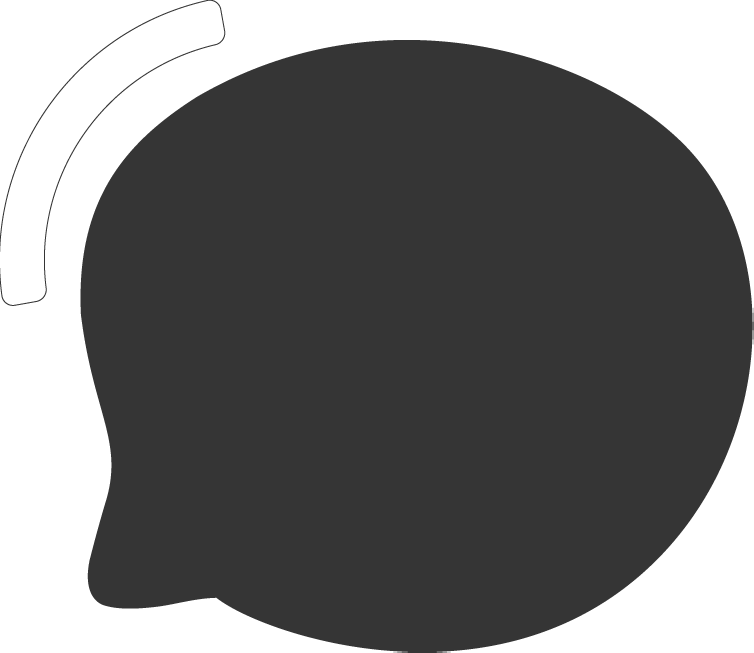
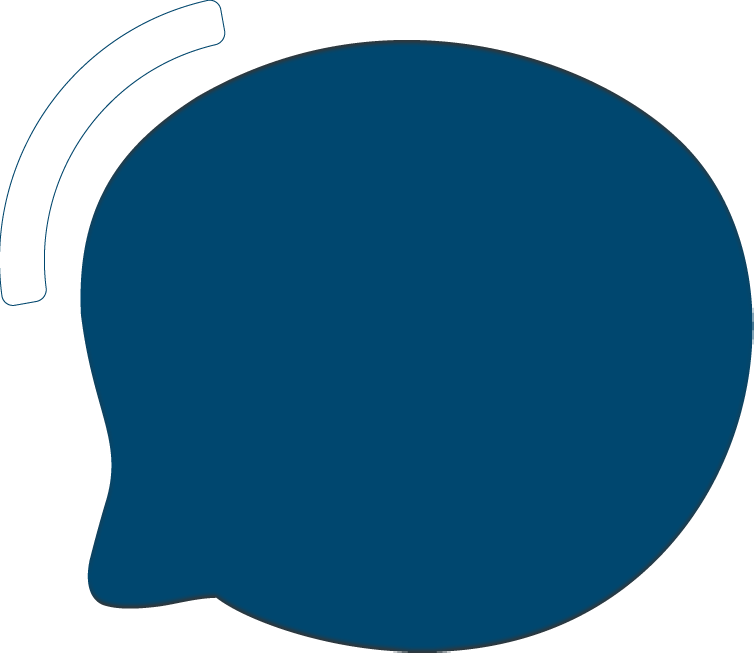
complete

diff --git a/index.html b/index.html
@@ -449,36 +449,27 @@
                     <div class="col-md-3"></div>
                 </div>
             </div>
-            <div class="row" style="margin-left: 85px;">
+            <div class="row">
                 <h1 class="text-center my-3">Our team</h1>
                 <div class="team">
                     <div class="row">
-                        <div class="col m-3 text-center">
-                            <img src="./assets/ceo.jpg" alt="" style="border: 2px solid black;" width="200">
-                            <p>Sahil Bhayani</p>
-                            <p>CEO</p>
+                        <div class="col-md-3 text-center">
+                            <img src="./assets/CEO.png" alt="ceo" height="300px" width="300px">
                         </div>
-                        <div class="col m-3 text-center">
-                            <img src="./assets/co-founder.jpg" alt="" style="border: 2px solid black;" width="200">
-                            <p>Dhruvik Bhayani</p>
-                            <p>Co-Founder<br/>and Project manager</p>
+                        <div class="col-md-3 text-center">
+                            <img src="./assets/manager.png" alt="manager" height="300px" width="300px">
                         </div>
-                        <div class="col m-3 text-center">
-                            <img src="./assets/tm.jpg" alt="" style="border: 2px solid black;" width="200">
-                            <p>Ishver Bhayani</p>
-                            <p>Team Leader<br/>and Senior Developer</p>
+                        <div class="col-md-3 text-center">
+                            <img src="./assets/developer.png" alt="devloper" height="300px" width="300px">
                         </div>
-                        <div class="col m-3 text-center">
-                            <img src="./assets/co-founder.jpg" alt="" style="border: 2px solid black;" width="200">
-                            <p>unknown</p>
-                            <p>Bde</p>
+                        <div class="col-md-3 text-center">
+                            <img src="./assets/bde.png" alt="bde" height="300px" width="300px">
                         </div>
-
                     </div>
                 </div>
             </div>
 
-            <div class="footer-bar bg-dark">
+            <div class="footer-bar" style="background-color: rgb(0, 71, 111, 1);">
                 <div class="continer-fluid">
                     <div class="row">
                         <div class="col-4" style="margin-bottom: 20px;">

diff --git a/index.css b/index.css
@@ -49,7 +49,7 @@ body{
 }
 
 .back{
-    background-image: url("assets/back5.png");
+    background-image: url("assets/back6.png");
     background-position:left;
     background-repeat: no-repeat;
     background-size: contain;
@@ -207,6 +207,7 @@ body{
     animation: fadeInLeft ease-in 2s;
     transition: opacity 1s;
     height: 450px;
+    margin-top: 60px;
 }
 
 .layer1{
@@ -356,7 +357,7 @@ body{
 .info_3{
     display: flex;
     height: 35%;
-    background-color: #383434;
+    background-color: rgb(0, 71, 111, 1);
     position: relative;
     flex-direction: initial;
     flex-wrap: initial;
@@ -366,7 +367,7 @@ body{
     align-content: center;
     justify-content: center;
     border-radius: 10px;
-    border: 2px solid;
+    /* border: 2px solid; */
     animation: fadeInRight ease-in 2s;
     transition: opacity 1s;
     padding: 10px;
@@ -608,8 +609,8 @@ span{
     color: white;
     font-size: 21px;
     text-align: center;
-    margin-top: 220px;
-    margin-left: 45px;
+    margin: 220px 15px 0px 75px;
+
 }
 
 .home-img{
@@ -882,7 +883,7 @@ span{
 .card2{
     display: flex;
     flex-wrap: wrap;
-    background-color:#383434 ;
+    background-color:rgb(0, 71, 111, 1);
     color: white;
     padding: 20px;
     height: 10%;
@@ -910,7 +911,7 @@ span{
 .card4{
     display: flex;
     flex-wrap: wrap;
-    background-color:#383434 ;
+    background-color:rgb(0, 71, 111, 1);
     color: white;
     padding: 20px;
     height: 10%;
@@ -941,7 +942,7 @@ span{
 .card6{
     display: flex;
     flex-wrap: wrap;
-    background-color:#383434 ;
+    background-color:rgb(0, 71, 111, 1);
     color: white;
     padding: 20px;
     height: 10%;

diff --git a/services.html b/services.html
@@ -108,17 +108,19 @@
             </div>
             <div class="message_content">
                 <div class="message_png">
-                <p class="message_content_service">We want you to be completely satisfied with our services.<br> We will do whatever it takes to make you
-                    happy.<br>No hassles, no problems.
-                    You deserve to have your<br>questions answered in plain English.Our technicians will clearly<br> explain
-                    what is happening so you understand.</p>
+                    <div class="col-lg-12 col-md-12">
+                        <p class="message_content_service">We want you to be completely satisfied with our services. We will do whatever it takes to make you
+                            happy.No hassles, no problems.
+                            You deserve to have yourquestions answered in plain English.Our technicians will clearly explain
+                            what is happening so you understand.</p>
+                    </div>
                 </div>
             </div>
         </div>
 
     
      
-        <div class="footer-bar bg-dark">
+        <div class="footer-bar" style="background-color: rgb(0, 71, 111, 1);">
             <div class="continer-fluid">
                 <div class="row">
                     <div class="col-4" style="margin-bottom: 20px;">

diff --git a/contact.html b/contact.html
@@ -90,7 +90,7 @@
                 referrerpolicy="no-referrer-when-downgrade"></iframe>
         </div>
 
-        <div class="footer-bar bg-dark">
+        <div class="footer-bar" style="background-color: rgb(0, 71, 111, 1);">
             <div class="continer-fluid">
                 <div class="row">
                     <div class="col-4" style="margin-bottom: 20px;">

diff --git a/aboutus.html b/aboutus.html
@@ -144,7 +144,7 @@
 
         </div>
 
-        <div class="footer-bar bg-dark">
+        <div class="footer-bar" style="background-color: rgb(0, 71, 111, 1);">
             <div class="continer-fluid">
                 <div class="row">
                     <div class="col-4" style="margin-bottom: 20px;">

diff --git a/ourapp.html b/ourapp.html
@@ -67,7 +67,7 @@
         </div>
 
 
-        <div class="footer-bar bg-dark">
+        <div class="footer-bar" style="background-color: rgb(0, 71, 111, 1);">
             <div class="continer-fluid">
                 <div class="row">
                     <div class="col-4" style="margin-bottom: 20px;">
